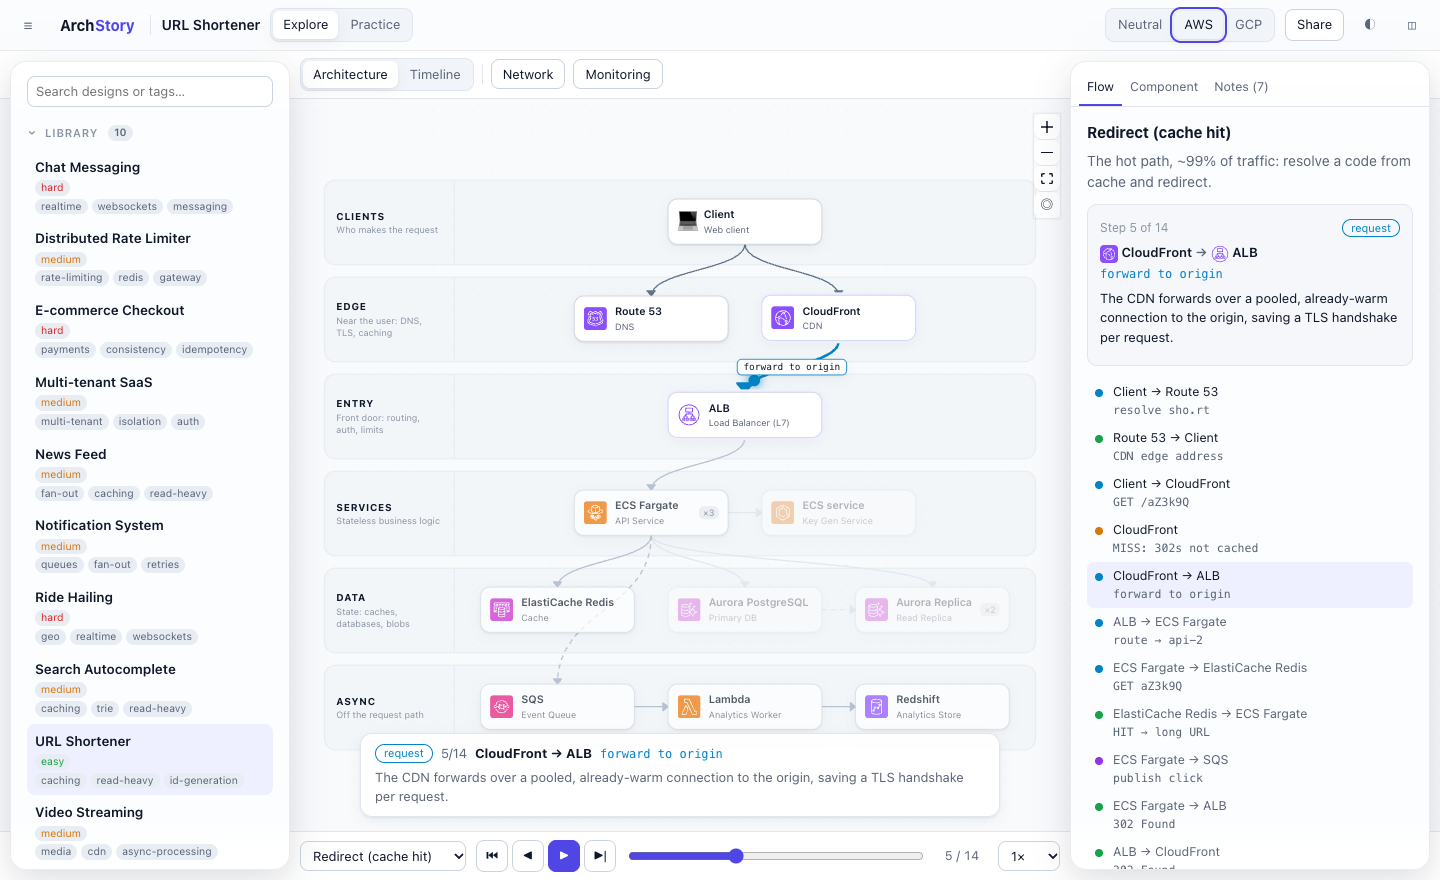
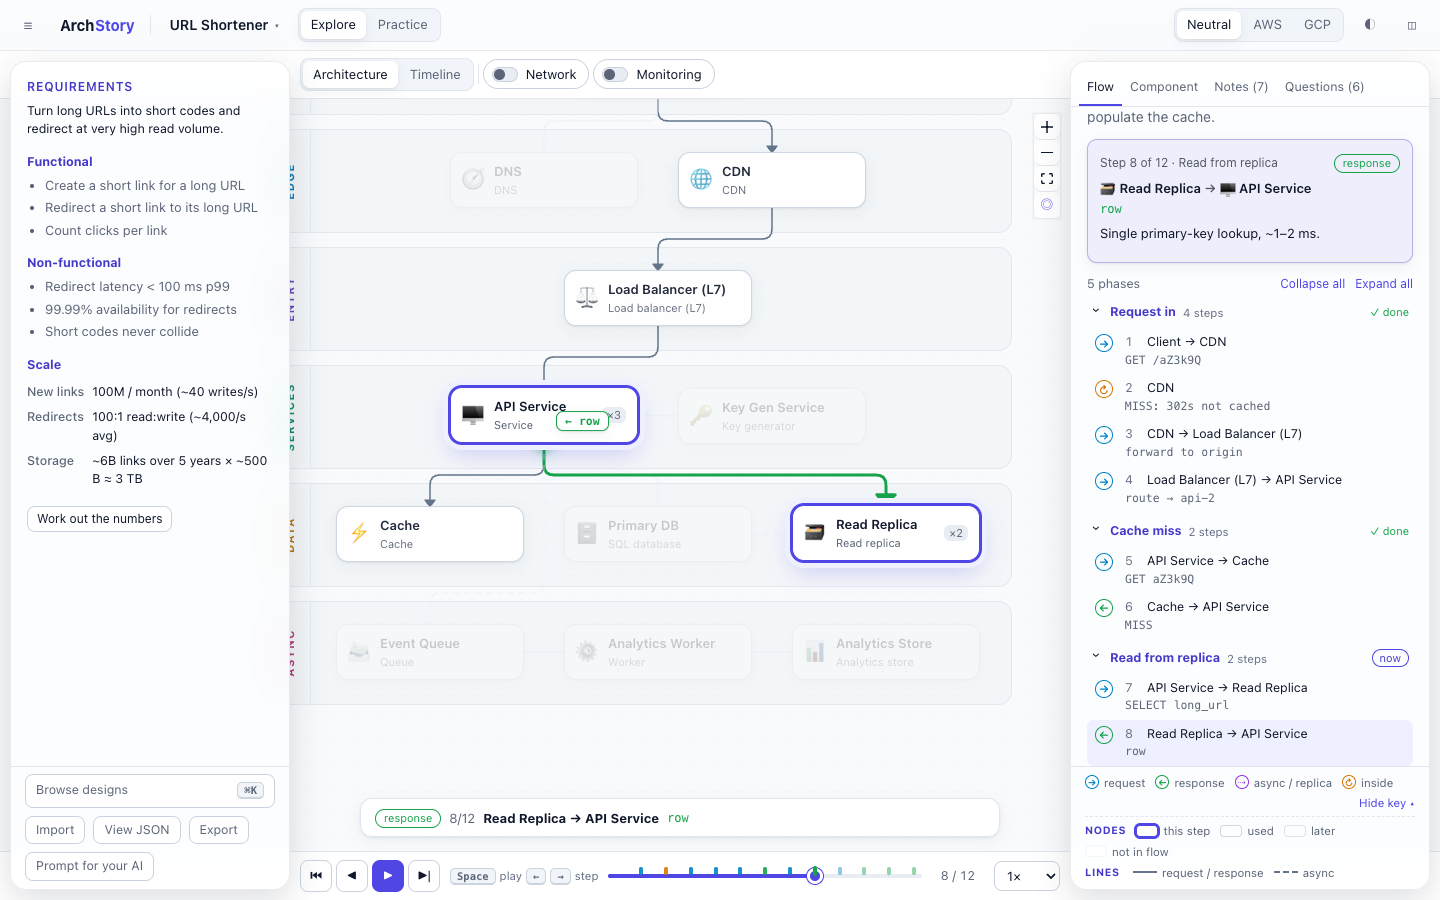
Security policy on the built site, Dependabot and an audit check before deploy, link previews, key advice, friendly local address
Claude-Session: https://claude.ai/code/session_01VDqDiNUrcKrHW6ekYkGosH

diff --git a/vite.config.ts b/vite.config.ts
@@ -1,8 +1,46 @@
 import react from '@vitejs/plugin-react'
-import { defineConfig } from 'vite'
+import { defineConfig, type Plugin } from 'vite'
+
+/**
+ * A Content Security Policy for the built site (GitHub Pages cannot send headers, so it goes in a meta tag).
+ * Only ArchStory's own scripts may run, which is the main protection for an API key kept in the page.
+ * Network calls may go to the AI providers, to any https server (a custom OpenAI-compatible endpoint) and to a local
+ * model server. Not applied in development, where Vite needs an inline script for hot reload.
+ */
+const CSP = [
+  "default-src 'self'",
+  "script-src 'self'",
+  "style-src 'self' 'unsafe-inline'",            // the canvas positions nodes with inline styles
+  "img-src 'self' data: blob:",
+  "font-src 'self' data:",
+  "connect-src 'self' https: http://localhost:* http://127.0.0.1:*",
+  "object-src 'none'",
+  "base-uri 'self'",
+  "form-action 'none'",
+].join('; ')
+
+const securityPolicy = (): Plugin => ({
+  name: 'archstory-csp',
+  apply: 'build',
+  transformIndexHtml: () => [{ tag: 'meta', attrs: { 'http-equiv': 'Content-Security-Policy', content: CSP }, injectTo: 'head-prepend' }],
+})
+
+/** Print a friendlier local address: any *.localhost name reaches this machine in Chrome, Edge and Firefox. */
+const friendlyUrl = (): Plugin => ({
+  name: 'archstory-url',
+  apply: 'serve',
+  configureServer(server) {
+    const print = server.printUrls
+    server.printUrls = () => {
+      print()
+      const local = server.resolvedUrls?.local[0]
+      if (local) console.log(`  \x1b[32m➜\x1b[0m  \x1b[1mArchStory\x1b[0m: ${local.replace('//localhost', '//archstory.localhost')}`)
+    }
+  },
+})
 
 // BASE_PATH is set by the GitHub Pages workflow, where the site lives under /<repo>/.
 export default defineConfig({
   base: process.env.BASE_PATH ?? '/',
-  plugins: [react()],
+  plugins: [react(), securityPolicy(), friendlyUrl()],
 })

diff --git a/index.html b/index.html
@@ -5,6 +5,17 @@
     <link rel="icon" type="image/svg+xml" href="/favicon.svg" />
     <meta name="viewport" content="width=device-width, initial-scale=1.0" />
     <title>ArchStory · System design, one request at a time</title>
+    <meta name="description" content="Free, open-source system design interview practice: watch requests flow through real architectures hop by hop, draw your own design, and get it checked. AWS and GCP views, timed mock interviews and follow-up questions." />
+    <meta name="theme-color" content="#4f46e5" />
+    <meta property="og:type" content="website" />
+    <meta property="og:site_name" content="ArchStory" />
+    <meta property="og:title" content="ArchStory · System design, one request at a time" />
+    <meta property="og:description" content="Watch requests flow through real architectures hop by hop, then practise your own designs with checks, timed interviews and follow-up questions. Free and open source." />
+    <meta property="og:url" content="https://vishbay.github.io/archstory/" />
+    <meta property="og:image" content="https://vishbay.github.io/archstory/og.png" />
+    <meta property="og:image:width" content="1200" />
+    <meta property="og:image:height" content="630" />
+    <meta name="twitter:card" content="summary_large_image" />
   </head>
   <body>
     <div id="root"></div>

diff --git a/src/app/AiSettings.tsx b/src/app/AiSettings.tsx
@@ -90,7 +90,7 @@ export function AiSettings({ onClose }: { onClose: () => void }) {
       <div className="ai-privacy small">
         <b>What gets sent:</b> the prompt, which includes your design or answer, goes to <b>{hostOf(draft)}</b> and nowhere else.
         The key stays in this browser, and is never put in exports or backups. Anyone who can use this browser profile can read a remembered key,
-        so skip "remember" on a shared computer.
+        so skip "remember" on a shared computer. Safest: make a key just for ArchStory, give it a low spending limit, and delete it when you stop using the app.
       </div>
 
       {test.state !== 'idle' && (

diff --git a/README.md b/README.md
@@ -6,7 +6,7 @@ Explore real architectures and watch each request travel through them hop by hop
 
 **[Try the live demo →](https://vishbay.github.io/archstory/)**
 
-![A request moving through the URL shortener design in AWS view](docs/screenshot.png)
+![A redirect in the URL shortener design: the response travels back from the read replica, with the step explained in the Flow panel](docs/screenshot.png)
 
 ## Features
 
